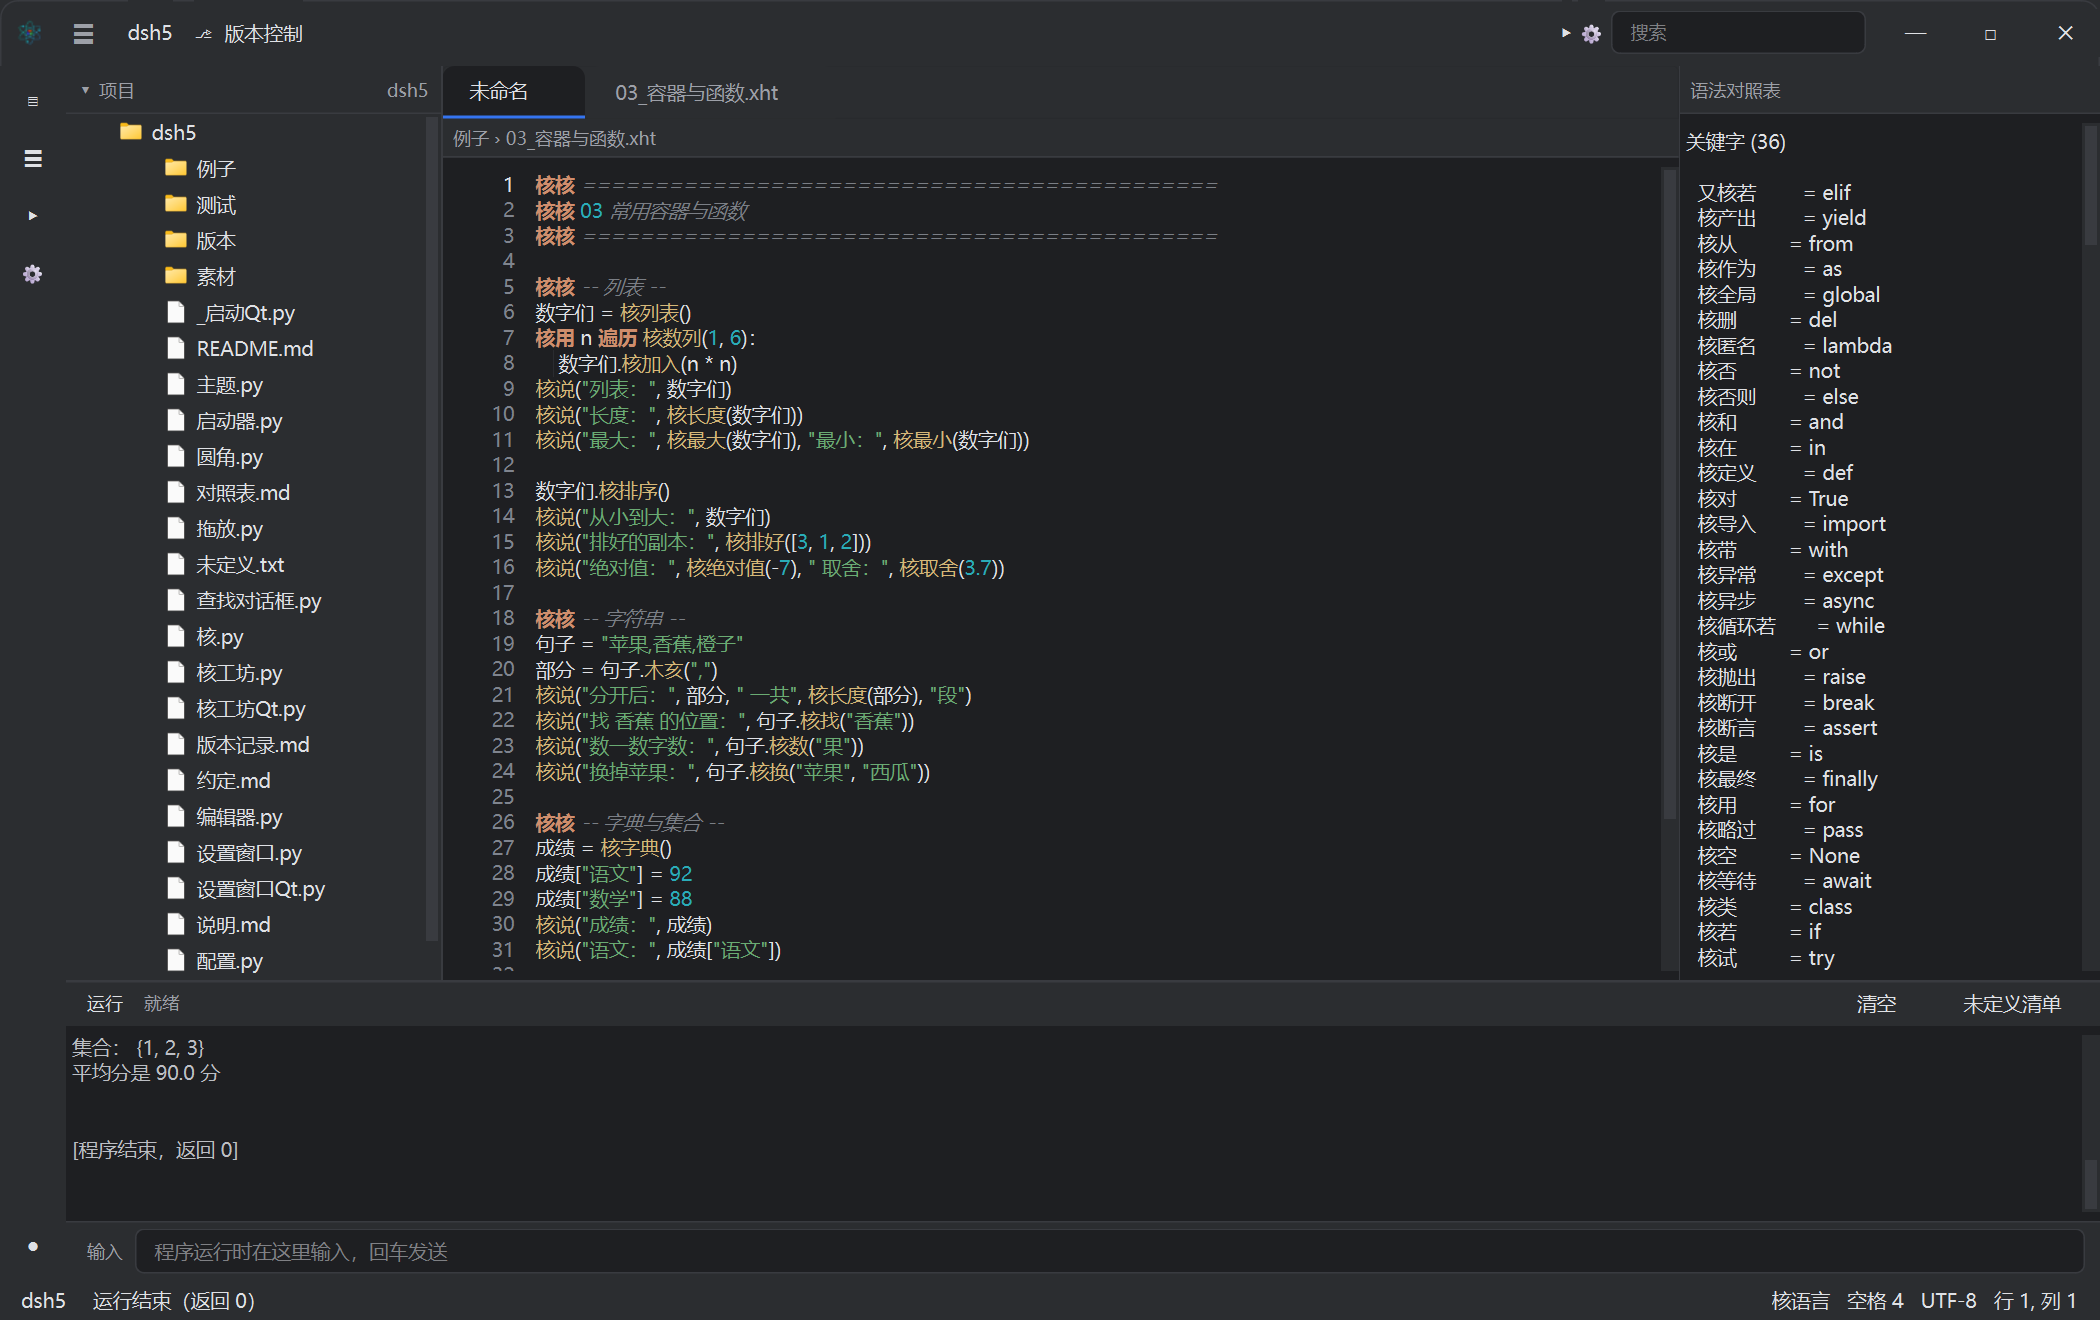
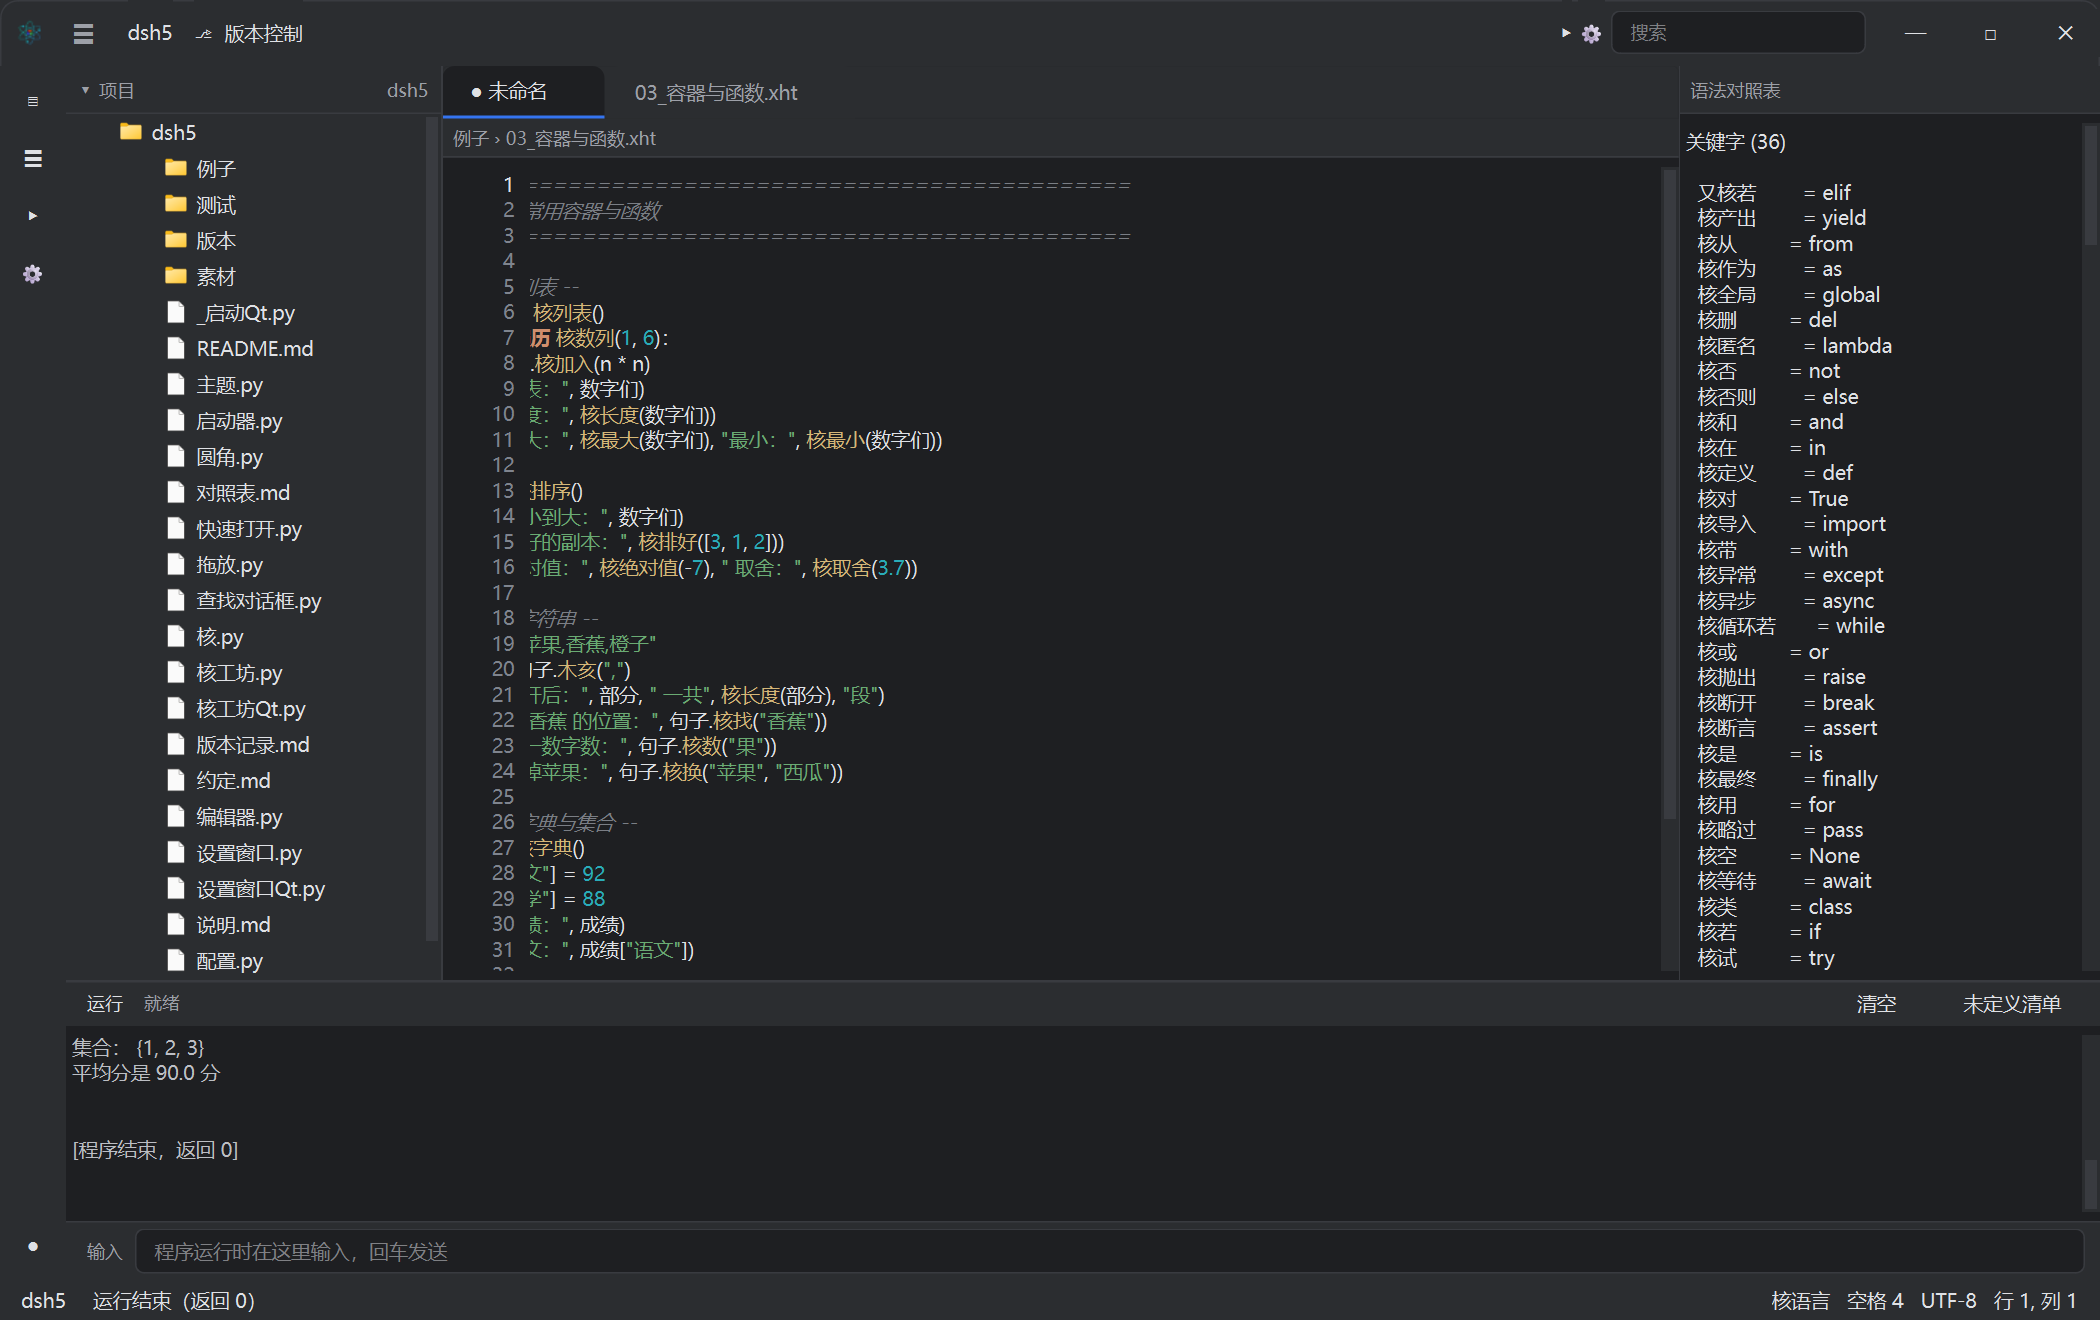
修复 Qt 打包版无法运行用户程序
打包入口缺 --内核 分支，导致 exe 里点「运行」时调用
[exe, --内核, 文件] 会去打开界面而不是执行程序。

现在入口按参数分流：
  --内核 文件   → 调 核.命令行 执行（exe 自带内核，目标机无需 Python）
  --自检界面    → 界面自检
  无参数        → 打开界面

已验证：exe --内核 能跑示例、异常处理、语法检查、版本查询

diff --git a/测试/打包Qt.py b/测试/打包Qt.py
@@ -71,6 +71,10 @@ def 主():
             "    if 参数 and 参数[0] == '--自检界面':\n"
             "        目录 = 参数[1] if len(参数) > 1 else '.'\n"
             "        return _自检(目录)\n"
+            "    if 参数 and 参数[0] == '--内核':\n"
+            "        # 作为解释器运行用户程序：exe 自带内核，目标机器无需 Python\n"
+            "        import 核\n"
+            "        return 核.命令行(参数[1:])\n"
             "    import 核工坊Qt\n"
             "    return 核工坊Qt.启动()\n\n"
             "def _自检(输出目录):\n"
